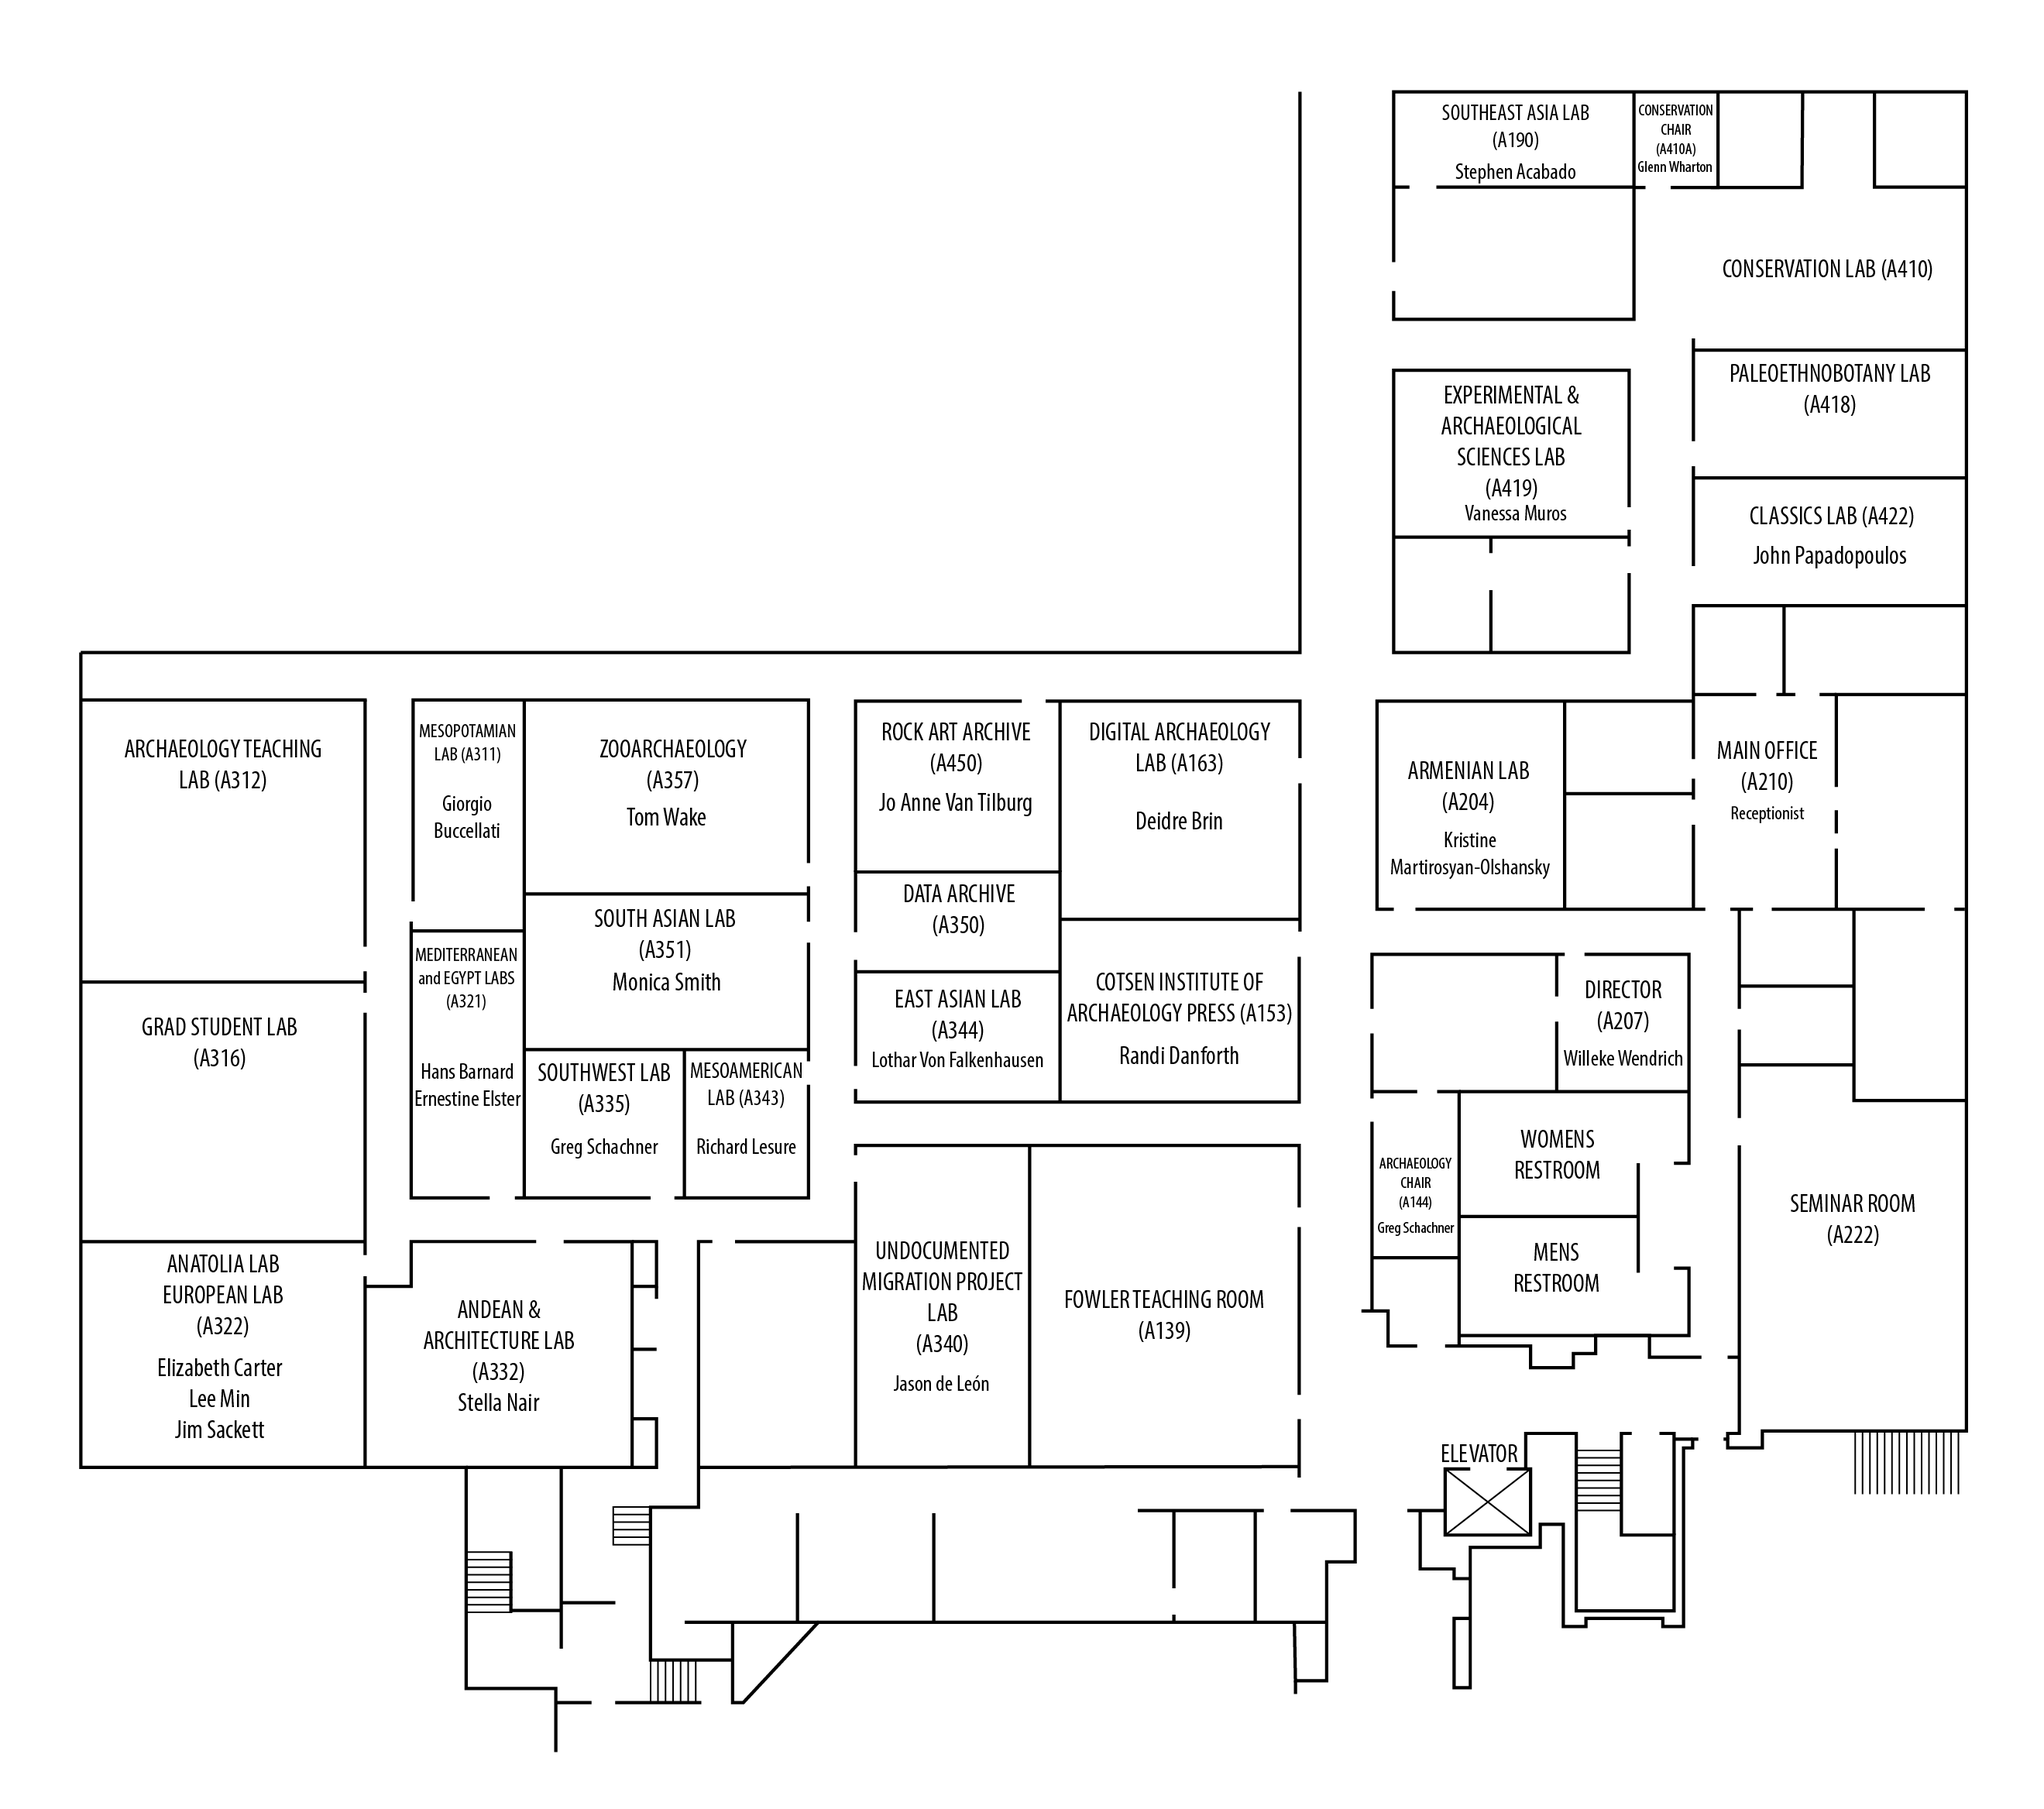
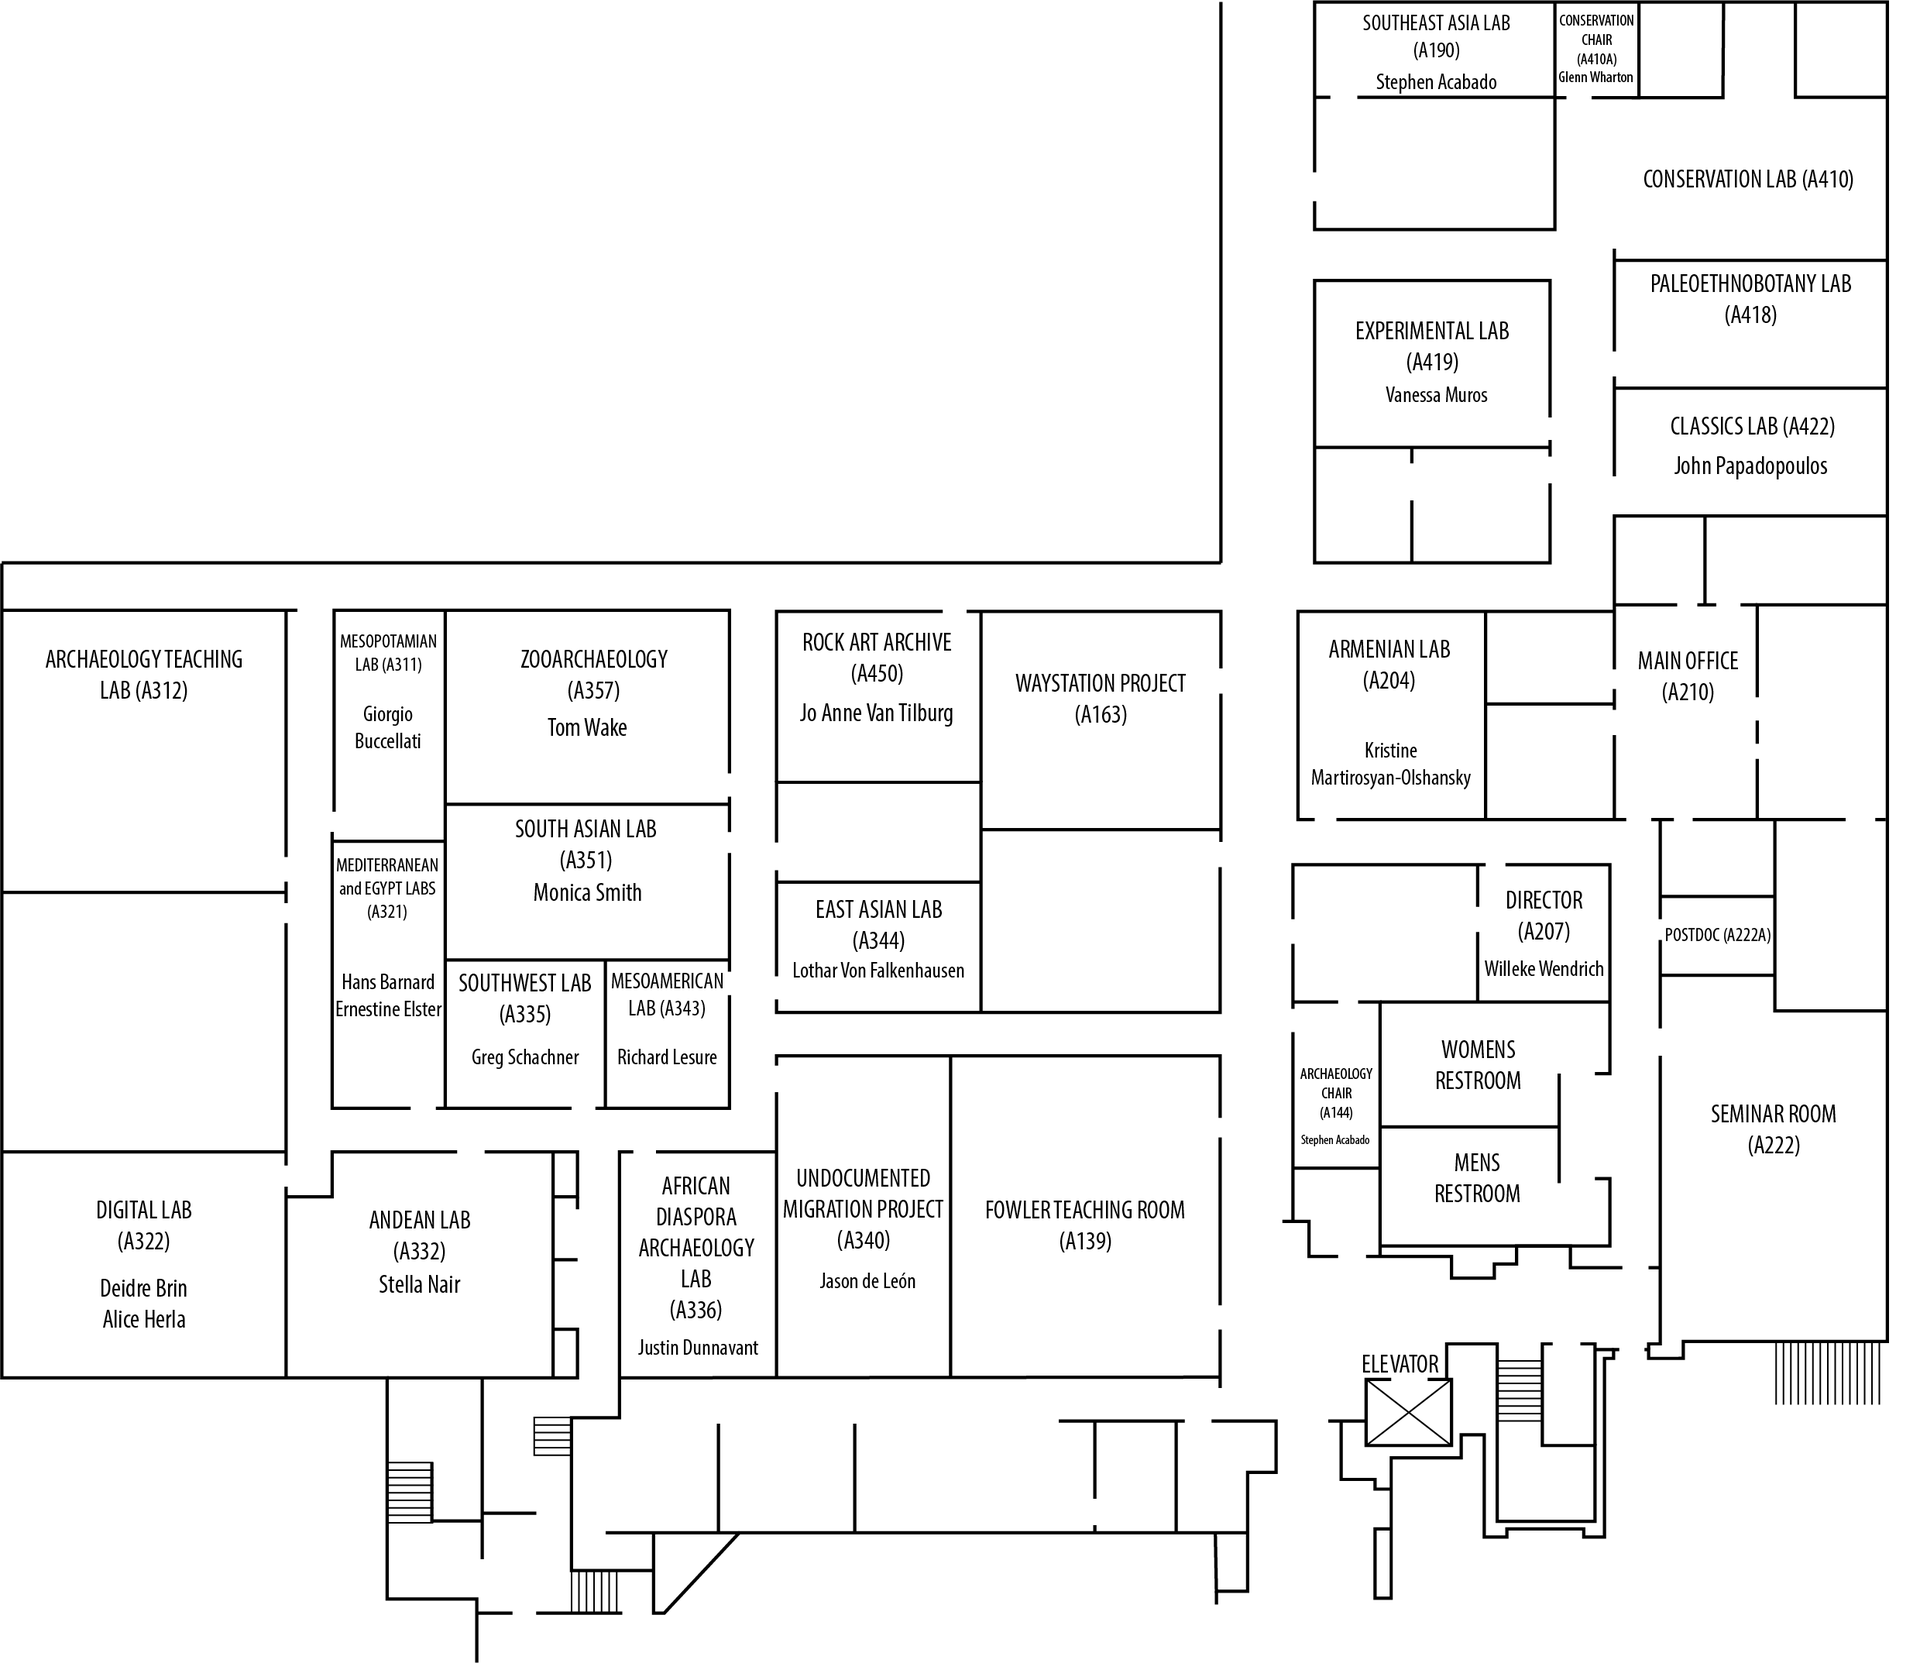
Institute updates
- Add new labs and edit locations on the map
- Update Digital Lab name in the text

Changed region(s): [[0.0, 0.3433, 0.6523, 0.9674], [0.6523, 0.0, 0.9939, 0.9674], [0.0, 0.8114, 0.0311, 0.8426]]

diff --git a/tour.html b/tour.html
@@ -198,8 +198,8 @@
               ],
             },
 
-            dal: {
-              title: "Digital Archaeology Lab",
+            dl: {
+              title: "Digital Lab",
               hfov: 110,
               yaw: -142,
               pitch: -10,
@@ -228,35 +228,35 @@
                   yaw: -1.2,
                   type: "info",
                   "createTooltipFunc": hotspot,
-                  "createTooltipArgs": "The Digital Archaeology Lab was designed to be flexible and multipurpose. Our three pods are all on wheels and can be rearranged as needed to support small groups working on individual projects or larger meetings.",
+                  "createTooltipArgs": "The Digital Lab was designed to be flexible and multipurpose. Our three pods are all on wheels and can be rearranged as needed to support small groups working on individual projects or larger meetings.",
                 },
                 {
                   pitch: -31.15,
                   yaw: 72.16,
                   type: "info",
                   "createTooltipFunc": hotspot,
-                  "createTooltipArgs": "The Digital Archaeology Lab has three workstations equipped with the software most commonly used by archaeologists and conservators. Our two PCs are geared towards processing and working with 3D models, a type of data utilized by cultural heritage researchers to document and analyze artifacts, architectural remains, and sites.",
+                  "createTooltipArgs": "The Digital Lab has three workstations equipped with the software most commonly used by archaeologists and conservators. Our two PCs are geared towards processing and working with 3D models, a type of data utilized by cultural heritage researchers to document and analyze artifacts, architectural remains, and sites.",
                 },
                 {
                   pitch: -6.8,
                   yaw: -153.5,
                   type: "info",
                   "createTooltipFunc": hotspot,
-                  "createTooltipArgs": "As you might have noticed from this tour, we're interested in exploring how technology can be used to disseminate information. The Digital Archaeology Lab provides support for projects investigating how augmented reality can be implemented in museums or archives or how virtual reality can bring archaeological sites and reconstructions to a broader audience. With our VR headset, guests can walk through the temple complex of Karnak in Egypt or explore a Greco-Roman bathhouse. Check out some of the projects <a href='https://archvr.ucla.edu/' target='_blank'>here</a>!<p></p><img src='./_DSC1264.jpg' width='300px' />",
+                  "createTooltipArgs": "As you might have noticed from this tour, we're interested in exploring how technology can be used to disseminate information. The Digital Lab provides support for projects investigating how augmented reality can be implemented in museums or archives or how virtual reality can bring archaeological sites and reconstructions to a broader audience. With our VR headset, guests can walk through the temple complex of Karnak in Egypt or explore a Greco-Roman bathhouse. Check out some of the projects <a href='https://archvr.ucla.edu/' target='_blank'>here</a>!<p></p><img src='./_DSC1264.jpg' width='300px' />",
                 },
                 {
                   pitch: 1.6,
                   yaw: 153.5,
                   type: "info",
                   "createTooltipFunc": hotspot,
-                  "createTooltipArgs": "The Digital Archaeology Lab partners with the Emerging Technologies Librarian at UCLA to offer access to a range of handheld photogrammetric and LiDAR scanners. These devices can be used to create 3D models of objects as small as a tooth through to entire buildings.",
+                  "createTooltipArgs": "The Digital Lab partners with the Emerging Technologies Librarian at UCLA to offer access to a range of handheld photogrammetric and LiDAR scanners. These devices can be used to create 3D models of objects as small as a tooth through to entire buildings.",
                 },
                 {
                   pitch: -12.96,
                   yaw: -295.17,
                   type: "info",
                   "createTooltipFunc": hotspot,
-                  "createTooltipArgs": "Not everything in the Digital Archaeology Lab is digital, though our copystand helps with the process of digitization! With a lightbox and modular lights, users can take high resolution, publication quality photographs of artifacts, objects, and slides. The lighting kit can also be adapted to capture Reflectance Transformation Imaging collections - a technique used to produce an image of a three dimensional object that can be interacted with to change the direction of light (super handy to see etching or small details on artifacts).<p></p><img src='./profoto.jpg' width='300px' />",
+                  "createTooltipArgs": "Not everything in the Digital Lab is digital, though our copystand helps with the process of digitization! With a lightbox and modular lights, users can take high resolution, publication quality photographs of artifacts, objects, and slides. The lighting kit can also be adapted to capture Reflectance Transformation Imaging collections - a technique used to produce an image of a three dimensional object that can be interacted with to change the direction of light (super handy to see etching or small details on artifacts).<p></p><img src='./profoto.jpg' width='300px' />",
                 },
                 {
                   pitch: 4.25,
@@ -270,35 +270,35 @@
                   yaw: 225.78,
                   type: "info",
                   "createTooltipFunc": hotspot,
-                  "createTooltipArgs": "No tour of the Digital Archaeology Lab is complete without stopping by to see our robotic vacuum Autto! He keeps the space clean and fresh with the occasional musical beep. Thank you Autto! <p></p> <video width='300px' autoplay loop muted><source src='./IMG_3167.mp4' type='video/mp4'></video>",
+                  "createTooltipArgs": "No tour of the Digital Lab is complete without stopping by to see our robotic vacuum Autto! He keeps the space clean and fresh with the occasional musical beep. Thank you Autto! <p></p> <video width='300px' autoplay loop muted><source src='./IMG_3167.mp4' type='video/mp4'></video>",
                 },
                 {
                   pitch: -1.47,
                   yaw: 242.19,
                   type: "info",
                   "createTooltipFunc": hotspot,
-                  "createTooltipArgs": "The Digital Archaeology Lab also organizes and hosts <a href='https://dal.ucla.edu/resources/workshops/' target='_blank'>workshops</a>. We focus on topics and tools essential to cultural heritage scholarship and strive to create a welcoming environment for everyone. The DAL staff also develops and posts <a href='https://dal.ucla.edu/resources/tutorials/' target='_blank'>tutorials</a> to our website.",
+                  "createTooltipArgs": "The Digital Lab also organizes and hosts <a href='https://dal.ucla.edu/resources/workshops/' target='_blank'>workshops</a>. We focus on topics and tools essential to cultural heritage scholarship and strive to create a welcoming environment for everyone. The Digital Lab staff also develops and posts <a href='https://dal.ucla.edu/resources/tutorials/' target='_blank'>tutorials</a> to our website.",
                 },
                 {
                   pitch: 7.04,
                   yaw: -170.64,
                   type: "info",
                   "createTooltipFunc": hotspot,
-                  "createTooltipArgs": "Many academic projects want to work with collaborators on online databases or present information about their work through portfolios and websites. Students and faculty at the Cotsen have access to free web hosting and basic support through the Digital Archaeology Lab. We have a template database that can be customized to your needs!",
+                  "createTooltipArgs": "Many academic projects want to work with collaborators on online databases or present information about their work through portfolios and websites. Students and faculty at the Cotsen have access to free web hosting and basic support through the Digital Lab. We have a template database that can be customized to your needs!",
                 },
                 {
                   pitch: -0.25,
                   yaw: -91.39,
                   type: "info",
                   "createTooltipFunc": hotspot,
-                  "createTooltipArgs": "We offer one-on-one or small group consultations on topics surrounding archaeological data practices and digital technologies. The DAL team can help plan how to manage your dissertation data and has developed a template database that can be customized to various specialties (e.g. ceramics, lithics, textiles, botanical samples, etc). Check out the full list of topics we are ready to consult on <a href='https://dal.ucla.edu/consultations' target='_blank'>here</a>!",
+                  "createTooltipArgs": "We offer one-on-one or small group consultations on topics surrounding archaeological data practices and digital technologies. The Digital Lab team can help plan how to manage your dissertation data and has developed a template database that can be customized to various specialties (e.g. ceramics, lithics, textiles, botanical samples, etc). Check out the full list of topics we are ready to consult on <a href='https://dal.ucla.edu/consultations' target='_blank'>here</a>!",
                 },
                 {
                   pitch: 4.60,
                   yaw: -53.49,
                   type: "info",
                   "createTooltipFunc": hotspot,
-                  "createTooltipArgs": "The Digital Archaeology Lab is part of a thriving network of research facilitators focusing on digital academic research at UCLA. Through this network, the <a href='https://drc.ucla.edu' target='_blank'>Digital Research Consortium</a>, we have access to technologists with a much broader range of expertise than we would be able to offer alone. Additionally, the DRC builds and maintains various tools to assist scholars across campus.",
+                  "createTooltipArgs": "The Digital Lab is part of a thriving network of research facilitators focusing on digital academic research at UCLA. Through this network, the <a href='https://drc.ucla.edu' target='_blank'>Digital Research Consortium</a>, we have access to technologists with a much broader range of expertise than we would be able to offer alone. Additionally, the DRC builds and maintains various tools to assist scholars across campus.",
                 }
               ],
             },
@@ -381,8 +381,8 @@
                   pitch: -2.89,
                   yaw: -252.78,
                   type: "scene",
-                  text: "Enter the Digital Archaeology Lab",
-                  sceneId: "dal",
+                  text: "Enter the Digital Lab",
+                  sceneId: "dl",
                   targetYaw: -23,
                   targetPitch: 2,
                 },

diff --git a/docs/template.html b/docs/template.html
@@ -146,14 +146,14 @@
                   yaw: 225.78,
                   type: "info",
                   "createTooltipFunc": hotspot,
-                  "createTooltipArgs": "No tour of the Digital Archaeology Lab is complete without stopping by to see our robotic vacuum Autto! He keeps the space clean and fresh with the occasional musical beep. Thank you Autto! <p></p> <video width='300px' autoplay loop muted><source src='./IMG_3167.mp4' type='video/mp4'></video>",
+                  "createTooltipArgs": "No tour of the Digital Lab is complete without stopping by to see our robotic vacuum Autto! He keeps the space clean and fresh with the occasional musical beep. Thank you Autto! <p></p> <video width='300px' autoplay loop muted><source src='./IMG_3167.mp4' type='video/mp4'></video>",
                 },
                 {
                   pitch: -1.47,
                   yaw: 242.19,
                   type: "info",
                   "createTooltipFunc": hotspot,
-                  "createTooltipArgs": "The Digital Archaeology Lab also organizes and hosts <a href='https://dal.ucla.edu/resources/workshops/' target='_blank'>workshops</a>. We focus on topics and tools essential to cultural heritage scholarship and strive to create a welcoming environment for everyone. The DAL staff also develops and posts <a href='https://dal.ucla.edu/resources/tutorials/' target='_blank'>tutorials</a> to our website.",
+                  "createTooltipArgs": "The Digital Lab also organizes and hosts <a href='https://dal.ucla.edu/resources/workshops/' target='_blank'>workshops</a>. We focus on topics and tools essential to cultural heritage scholarship and strive to create a welcoming environment for everyone. The Digital Lab staff also develops and posts <a href='https://dal.ucla.edu/resources/tutorials/' target='_blank'>tutorials</a> to our website.",
                 },
               ],
             },

diff --git a/README.md b/README.md
@@ -23,4 +23,4 @@ If used as part of academic research, please cite:
 
 ### Contact
 
-For additional information, contact the Digital Archaeology Lab at [dal@ioa.ucla.edu](mailto:dal@ioa.ucla.edu).
+For additional information, contact the Digital Lab at [dal@ioa.ucla.edu](mailto:dal@ioa.ucla.edu).
